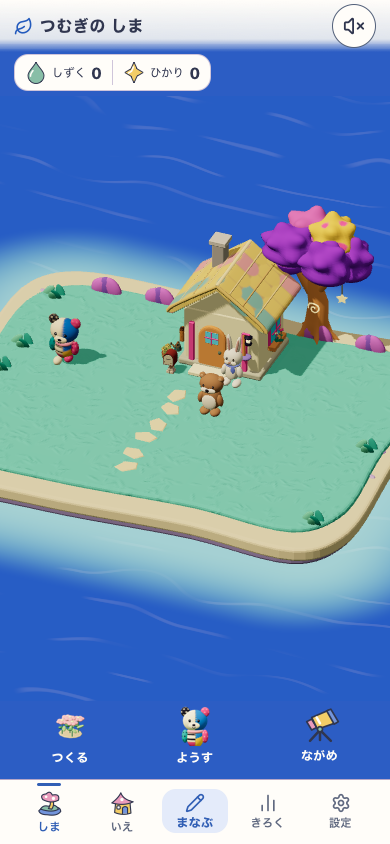
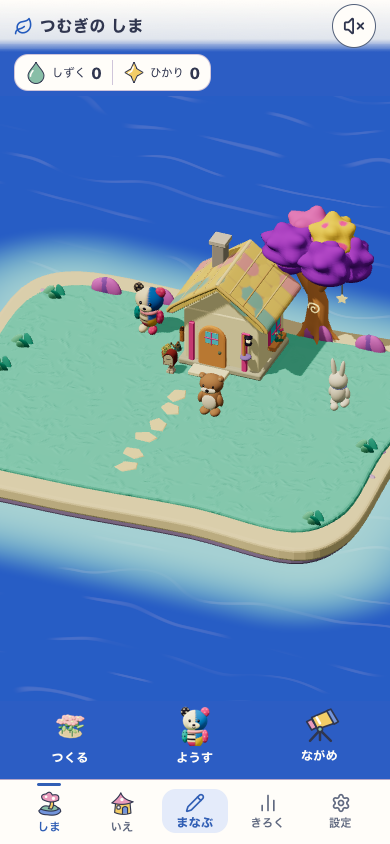
docs(island): record verified house release and browser limits [skip ci]

diff --git a/docs/design/audits/2026-09-20-house-camera/contact-sheet.html b/docs/design/audits/2026-09-20-house-camera/contact-sheet.html
@@ -1,1 +1,1 @@
-<!doctype html><html lang="ja"><meta charset="utf-8"><meta name="viewport" content="width=device-width"><title>家のカメラ比較</title><style>body{background:#f7f5ef;color:#24324b;font:16px system-ui;margin:24px}section{display:flex;gap:16px;overflow:auto}figure{margin:0;flex:0 0 300px}img{width:100%;height:auto}figcaption{margin:10px 0}h2{font-size:19px}p{max-width:70ch}</style><h1>家のカメラを近くへ</h1><p>WebKit、390×844 / 768×1024。実機ではありません。島と家のUIをそろえた後、縦画面の中央の住人・机を大きくしました。各旅程は同じ本番ビルド（15c3eafc）です。</p><h2>スマホの比較</h2><section><figure><figcaption>ユーザーの参考画像</figcaption><img src="../2026-09-20-house-ui/reference-house.jpg"></figure><figure><figcaption>UI整理後・カメラ調整前</figcaption><img src="../2026-09-20-house-ui/390-house.png"></figure><figure><figcaption>カメラ調整後</figcaption><img src="production-webkit-390-house.png"></figure></section><h2>390px の旅程</h2><section><figure><figcaption>起動</figcaption><img src="production-webkit-390-launch.png"></figure><figure><figcaption>家</figcaption><img src="production-webkit-390-house.png"></figure><figure><figcaption>移動</figcaption><img src="production-webkit-390-room-walk.png"></figure><figure><figcaption>端でも住人が見える</figcaption><img src="production-webkit-390-room-edge.png"></figure><figure><figcaption>メニュー</figcaption><img src="production-webkit-390-menu.png"></figure><figure><figcaption>アルバム</figcaption><img src="production-webkit-390-album.png"></figure><figure><figcaption>学習</figcaption><img src="production-webkit-390-learning-from-house-menu.png"></figure><figure><figcaption>家へ復帰</figcaption><img src="production-webkit-390-learning-return.png"></figure></section><h2>768px の旅程</h2><section><figure><figcaption>起動</figcaption><img src="production-webkit-768-launch.png"></figure><figure><figcaption>家</figcaption><img src="production-webkit-768-house.png"></figure><figure><figcaption>移動</figcaption><img src="production-webkit-768-room-walk.png"></figure><figure><figcaption>端でも住人が見える</figcaption><img src="production-webkit-768-room-edge.png"></figure><figure><figcaption>メニュー</figcaption><img src="production-webkit-768-menu.png"></figure><figure><figcaption>アルバム</figcaption><img src="production-webkit-768-album.png"></figure><figure><figcaption>学習</figcaption><img src="production-webkit-768-learning-from-house-menu.png"></figure><figure><figcaption>家へ復帰</figcaption><img src="production-webkit-768-learning-return.png"></figure></section></html>
+<!doctype html><html lang="ja"><meta charset="utf-8"><meta name="viewport" content="width=device-width"><title>家のカメラ比較</title><style>body{background:#f7f5ef;color:#24324b;font:16px system-ui;margin:24px}section{display:flex;gap:16px;overflow:auto}figure{margin:0;flex:0 0 300px}img{width:100%;height:auto}figcaption{margin:10px 0}h2{font-size:19px}p{max-width:70ch}</style><h1>家のカメラを近くへ</h1><p>WebKit、390×844 / 768×1024。実機ではありません。島と家のUIをそろえた後、縦画面の中央の住人・机を大きくしました。各旅程は同じ本番ビルド（7ac24419、家の実装はb6d62216）です。</p><h2>スマホの比較</h2><section><figure><figcaption>ユーザーの参考画像</figcaption><img src="../2026-09-20-house-ui/reference-house.jpg"></figure><figure><figcaption>UI整理後・カメラ調整前</figcaption><img src="../2026-09-20-house-ui/390-house.png"></figure><figure><figcaption>カメラ調整後</figcaption><img src="production-webkit-390-house.png"></figure></section><h2>390px の旅程</h2><section><figure><figcaption>起動</figcaption><img src="production-webkit-390-launch.png"></figure><figure><figcaption>家</figcaption><img src="production-webkit-390-house.png"></figure><figure><figcaption>移動</figcaption><img src="production-webkit-390-room-walk.png"></figure><figure><figcaption>端でも住人が見える</figcaption><img src="production-webkit-390-room-edge.png"></figure><figure><figcaption>メニュー</figcaption><img src="production-webkit-390-menu.png"></figure><figure><figcaption>アルバム</figcaption><img src="production-webkit-390-album.png"></figure><figure><figcaption>学習</figcaption><img src="production-webkit-390-learning-from-house-menu.png"></figure><figure><figcaption>家へ復帰</figcaption><img src="production-webkit-390-learning-return.png"></figure></section><h2>768px の旅程</h2><section><figure><figcaption>起動</figcaption><img src="production-webkit-768-launch.png"></figure><figure><figcaption>家</figcaption><img src="production-webkit-768-house.png"></figure><figure><figcaption>移動</figcaption><img src="production-webkit-768-room-walk.png"></figure><figure><figcaption>端でも住人が見える</figcaption><img src="production-webkit-768-room-edge.png"></figure><figure><figcaption>メニュー</figcaption><img src="production-webkit-768-menu.png"></figure><figure><figcaption>アルバム</figcaption><img src="production-webkit-768-album.png"></figure><figure><figcaption>学習</figcaption><img src="production-webkit-768-learning-from-house-menu.png"></figure><figure><figcaption>家へ復帰</figcaption><img src="production-webkit-768-learning-return.png"></figure></section></html>

diff --git a/docs/design/audits/2026-09-20-house-camera/README.md b/docs/design/audits/2026-09-20-house-camera/README.md
@@ -1,41 +1,38 @@
-# 家の縦画面カメラ — 2026-09-20
+# 家のUIと室内カメラ — 2026-09-20
 
-ユーザーの追加指示「やって」により、家の先頭で中央の住人・机を近くに見せる。縦画面で部屋の横幅全体を収めるために増えていた天井・床の余白を減らした。左右の家具は一部が画面端に入り、記念・おしらせはメニューからも開ける。選択した記念と撮影の全体収容は維持する。
+家を小さな見出しと「アルバム／しゃしん／メニュー」の1列にそろえ、縦画面では中央の住人・机に寄せた。端へ歩くと全身が見える画角へ広がり、中央へ戻ると近い構図に戻る。詳細・撮影は従来の全体収容を保つ。低い横画面の詳細は室内と左右に並べる。
 
-[比較と旅程](contact-sheet.html) / [ビルドとsource](manifest.json) / [Chromium実操作](chromium-report.json) / [WebKit実操作](webkit-report.json) / [本番WebKit実操作](production-webkit-report.json)。最初のUI整理の根拠は[前段](../2026-09-20-house-ui/README.md)。
+[本番](https://sansu-seven.vercel.app) / [実画面の比較と旅程](contact-sheet.html) / [実target・build・source hash](manifest.json)。初期のUI整理は[前段の証拠](../2026-09-20-house-ui/README.md)。
 
-## 独立した判定
+## 実際の公開対象
 
-- 視覚: 390×844で住人と机を約1.4倍にし、余白を減らした。家具・キャラクター・材質は同じ。WebKitとChromiumの最終ビルドを参考画像と並べて作者が確認。美術全体の完成や満点評価ではない。
-- 無説明理解・安全: 独立観察0人。子どもの理解・再訪意欲は未検証。既存の文字付き入口、退出、移動案内を保持。
-- Runtime: phone/tablet・通常/reduced motion、実床タップ、矢印キー移動、机のアルバムの実3Dタップ、7store不変、メニューの焦点復帰、学習から同じ予約への復帰は両ブラウザでPASS。実機iOS/Androidとは区別する。
+家の最終アプリ変更は `b6d62216`。公開の最終contact sheetは、並行公開された島の飾り更新を保持した `7ac24419` の同一ビルドでphone/tabletを撮影した。manifestは観測した実revisionと家の実装revisionを分け、対象source hashを実際の7ac24419のtreeから取得している。家候補 `house-world-first-v1`、カメラ `island-home-interior-v5`、Island/Life有効。後続の文書だけのcommitはアプリ入力を変えない。
 
-## 固定した公開候補
+元の共有checkoutの他タスクの未コミット変更を混ぜず、独立worktreeで実装・検証。先行する島の入口CSSと後続の飾り公開は保持した。ローカル対象は `http://127.0.0.1:5384`、[ローカルmanifest](local-manifest.json)と[基準候補](baseline-manifest.json)を別保存。
 
-`15c3eafcdaa5b8102c934b9bfc7130b78b6ce5d9` の独立worktreeで最終ビルドし、対象は `http://127.0.0.1:5384`。元の共有checkoutの他タスクの未コミット変更は含めない。家候補 `house-world-first-v1`、カメラ `island-home-interior-v5`。flagsと実際のversionはmanifestに記録。最終contact sheetのcritical path画像は公開URLの同一ビルド。ローカルの元manifestは[別保存](local-manifest.json)。
+## 検証
 
-基準候補のカメラ15テスト、lint、typecheck、docs、build/assetsはPASS。最終の端歩行対応後はカメラ16件＋歩行3件の計19件、対象lint、typecheck、build/assetsを再実行してPASS。PWA precacheは125ファイル、11.57 MiB / 12 MiB。既存のIslandMilestone Fast Refresh警告と文書棚卸し期限警告は継続。390/320/768/844幅の[家の境界チェック](edges-report.json)もPASS。実初回3問での記念展示、履歴/直接URL、写真入口、長い一覧の明示fixture、保存失敗/再試行、実SW offline再読込、退出・44px操作を確認。全体テストは439ファイル・4,089件すべてPASS。
+- 最終アプリ変更の[GitHub Verify Core](https://github.com/yutogasaki/sansu/actions/runs/35486506197)は439ファイル・4,090件、docs/lint/typecheck/build/assetsまでPASS。[集計](ci-final-summary.json)。既存のFast Refresh警告と文書棚卸し期限警告は継続。
+- 基準候補のsmoke31件PASS。別タスクのサーバーを使わないため、同じハーネスのポート候補だけを5395へ変更した一時コピーで実行。
+- 390/320/768/844幅の[家の境界チェック](edges-report.json)はPASS。実初回3問での記念展示、履歴/直接URL、写真入口、長い一覧の明示fixture、保存失敗/再試行、実SW offline再読込、退出・44px操作を確認。
+- [本番WebKit](production-webkit-report.json)のphone/tablet、通常/reduced motion、音offで起動→家→実床タップ→矢印/端歩行→机のアルバム→メニュー→学習→同じ予約を残して家へ戻る全行程をPASS。bootstrapを含むpageerrorは0件。[ローカルChromium](chromium-report.json)と[ローカルWebKit](webkit-report.json)もPASS。
+- [修正版への実自動更新](final-update-report.json)は `15c3eafc` → `b6d62216`、その同一windowでのoffline再読込までPASS。同じ学習予約と7storeを保持した。実機のインストールとは区別する。
+- 撮影のCI修正後は写真・カメラ・歩行の3ファイル32件もPASS。Chromiumの本番では[実PNGの撮影・保存](photo-chromium-report.json)を確認した。WebKitの保存は下記の未解消事項。
 
-基本動作のsmokeは31件PASS。別タスクのサーバーを使わないため、同じハーネスのポート候補だけを5395にした一時コピーを実行。アプリと検査内容は変更していない。家のpage-level UI/stateと室内カメラの変更であり、学習入力・採点・テンポ、保存writer、PWA更新処理は変更していない。fixed-tenの再計測やアート生成の新しい受入評価はこの変更の証拠へ代用しない。
+今回の分類は家のpage-level UI/stateと室内カメラ。学習入力・採点・テンポ、保存writer、PWA更新処理は変更していない。fixed-tenの再計測や新しい美術の受入評価を行ったとは扱わない。
 
-## 検証中の訂正
+## 独立した判定と未解消事項
 
-最初の追加unit検査は本の内部の点に対し別表面の遮蔽まで禁止してしまった。画面内であることと、実カメラからのrayが本を選ぶことを検査する形に訂正し、15件PASS。最初のChromium旅程はローカルrevisionを付け直すビルドと重なり2つのversionを含んだため正式証拠に使わず、最終ビルドを固定して全旅程を再実行した。
+- 視覚: 390×844で住人と机を約1.4倍にし、天井・床の余白を減らした。家具・キャラクター・材質は同じ。参考画像と実画面を並べて作者が確認。美術全体の満点・完成認定ではない。
+- 無説明理解・安全: 独立観察0人。子どもの理解・再訪意欲、実機iOS/Androidは未検証。文字付き入口、退出、移動案内は保持。
+- Runtime: 家の表示・歩行・アルバム・メニュー・学習復帰・更新保持はPASS。**WebKitでの写真保存は未解消**。PNGプレビューは作れるが保存がerrorになり、再試行案内を表示する。[現在の公開版](photo-current-webkit-report.json)と[カメラ調整前の旧ビルド](photo-before-camera-report.json)の両方で再現し、Chromiumは成功した。写真の保存writerは今回変更していない。IDB putのエラー観測だけでは原因を特定できず、実機Safariでの再現も未確認。保存まわりの別の調査事項として残す。
 
-## 公開
+## 途中の失敗をどう扱ったか
 
-家庭内の[既存本番](https://sansu-seven.vercel.app)へ `15c3eafc` を配信。Vercelの公開成功と実versionを確認。旧公開版 `ad223e39` を開いたまま `15c3eafc` へ自動更新され、同じ予約と7storeが不変だった。公開版を新しく開いた隔離contextでは実SWによるoffline再読込後にも同じ予約・家の表示・メニュー操作をPASS。実機インストールや子どもの観察を行ったとは扱わない。
+- 初期の追加unit検査は本の内部の点に対し別表面の遮蔽まで禁止していた。画面内であることと実cameraのrayが本を選ぶことへ訂正し、assertionを実際の操作に合わせた。
+- 初回のChromium旅程はrevisionを付け直すbuildと重なり2versionを含んだため正式証拠に使わず、固定したbuildで全行程を再実行。
+- 公開直後の最初の自動更新は予約保持後にofflineのload待ちでtimeout。[元report](automatic-update-report.json)のpass=falseを保持。初回SWのcontrollerとnetwork idleを待ってから実操作を始め、offlineではDOMContentLoadedと実DOMを待つ検査へ訂正。上記の最終実更新は同一windowで完走した。
+- 公開WebKitの初回旅程はversion.jsonへの一時的なaccess-control pageerrorが1件あり不合格として保存。起動時のSWを待つ再検査ではbootstrapも通常操作も0件で、pageerrorを無視してPASSにしていない。
+- [最初のCI](https://github.com/yutogasaki/sansu/actions/runs/35485910076)は写真2件で、住人を持たない撮影fixtureから不要なboundsを参照して例外になった。参照をcloseOverview時に限定して修正。テストやfixtureを緩めず、最終CI全件PASS。
 
-統合時にmainへ入った `e741b5c2` の島の入口CSSを保持してrebaseした。アプリ差分は `life-world-first.css` の島専用セレクタだけで、家のカメラ・操作・学習/保存のTS/TSXは同一。全体テストは基準候補01b936f9の結果を保持し、統合3519991ではbuild/assetsとWebKitの起動→家→移動→アルバム/メニュー→学習→同じ家の往復を再確認してPASS。
-
-最終の `15c3eafc` は、寄せた画角のまま矢印キーで端へ歩くと画面外へ出るケースに対応。実住人の全身boundsから必要なときだけ画角を広げ、中央への帰還で近い画角を復元する。学習・保存・部屋の形状は同じ。基準候補の全体439ファイル/4,089件とsmoke31件は保持し、変更の影響があるカメラ/歩行と両ブラウザの実操作を追加で検証した。
-
-公開直後の最初の自動更新windowでは、予約保持を確認した後のoffline `load` 待ちが30秒でtimeoutしたため、その[一連のreport](automatic-update-report.json)はpass=falseを保持する。続くfresh検査も初回SWのnavigationとDB読取りが重なり中断。初回SWのcontrollerとnetwork idleを待ってから実操作を始め、offlineはDOMContentLoadedと家の実DOMを待つ[再検査](production-offline-report.json)でPASSした。旧→新更新とfreshな新版offlineは別contextの証拠であり、最初のwindowでofflineまで完走したとは扱わない。
-
-公開WebKitの初回検査は家の操作・予約保持のassertion後に、version.jsonへの一時的なaccess-control pageerrorが1件あり不合格として残した。初回SWを待ってからリロードし、bootstrap中のerrorを別記録にして以後のpageerrorも空であることを確認する検査を追加した。アプリのPWA処理は変更していない。
-
-本番WebKitの再検査はphone/tabletともPASS。bootstrap pageerrorも0件で、通常のpageerrorを無視した検査ではない。起動→家→床/矢印/端歩行→机のアルバム→メニュー→学習→同じ予約を残して家へ戻る全行程を同じ公開buildで保存した。保存した検査scriptは相対importの位置だけを監査フォルダへ合わせている。
-
-## CI追補
-
-[最初のVerify Core](https://github.com/yutogasaki/sansu/actions/runs/35485910076)は4,088件PASS、写真の2件FAIL。端歩行対応で `frameKeepsakeRoom` が通常の写真構図でも不要な住人boundsを参照するようになり、住人を持たない撮影fixtureで例外になった。boundsの参照を `closeOverview` 時に限定して修正した。テストのassertionやfixtureを緩めず、写真・カメラ・歩行の3ファイル32件を再実行してPASS。15c3eafcの本番画像とPWA記録は修正前の観測として保持し、修正後の公開版を別途確認する。
+保存した検査scriptは相対importの位置だけ監査フォルダへ合わせている。生の失敗・診断と正式な公開旅程を分け、旧版・別context・実機の証拠へ置き換えない。

diff --git a/docs/done/2026-09.md b/docs/done/2026-09.md
@@ -2,7 +2,7 @@
 
 ## 2026-09-20 — 家のUIをしまの小さな操作面へ統一
 
-家を小さな見出しと「アルバム／しゃしん／メニュー」の1列へ整理。縦画面は住人・机に寄せ、端へ歩くと全身が見える画角へ広がる。低い横画面の詳細は左右に分ける。基準候補の全体439ファイル/4,089件・smoke31件、4サイズの操作/記念展示/保存失敗/実SW offlineがPASS。最終の歩行対応後に関連19件と両ブラウザの実3Dタップ・端移動・学習復帰を確認。[最終画面と公開証拠](../design/audits/2026-09-20-house-camera/README.md)。実機と子どもの無説明理解は未検証。
+家を小さな見出しと「アルバム／しゃしん／メニュー」の1列へ整理。縦画面は住人・机に寄せ、端へ歩くと全身が見える画角へ広がる。低い横画面の詳細は左右に分ける。基準候補の全体439ファイル/4,089件・smoke31件、4サイズの操作/記念展示/保存失敗/実SW offlineがPASS。最終の歩行対応後に関連19件と両ブラウザの実3Dタップ・端移動・学習復帰を確認。[最終画面と公開証拠](../design/audits/2026-09-20-house-camera/README.md)。本番への反映と同一windowの自動更新→offlineで予約保持、最終GitHub Core 439ファイル/4,090件もPASS。実機と子どもの無説明理解は未検証。WebKitの写真保存errorはカメラ調整前の版でも再現し、別の未解消事項として記録。
 
 ## 2026-09-19 — Nature Townをmainへpush・Linux固定フレーム比較
 
